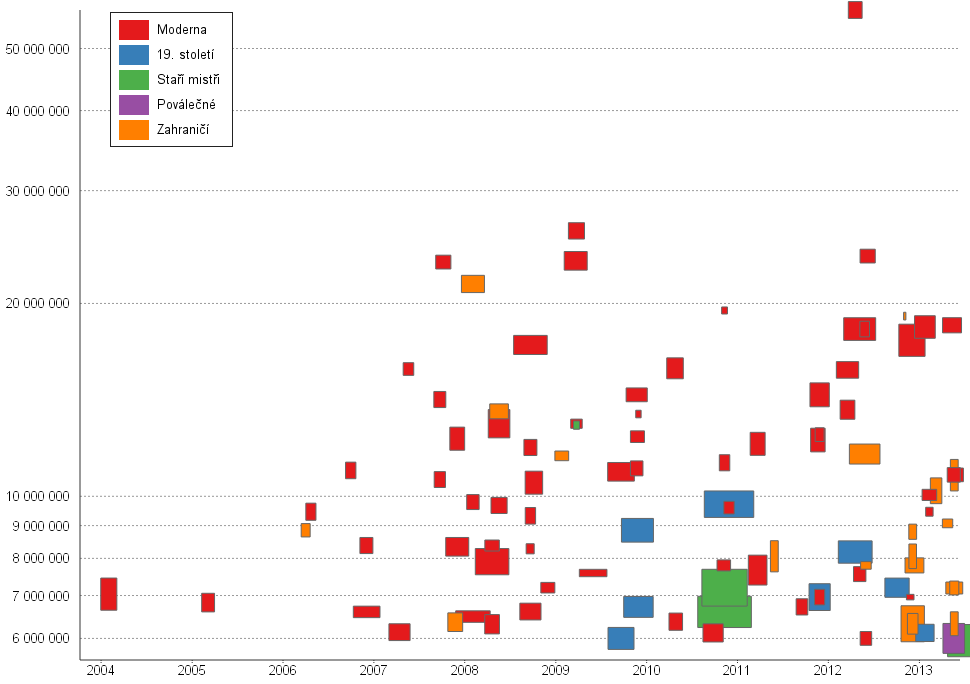
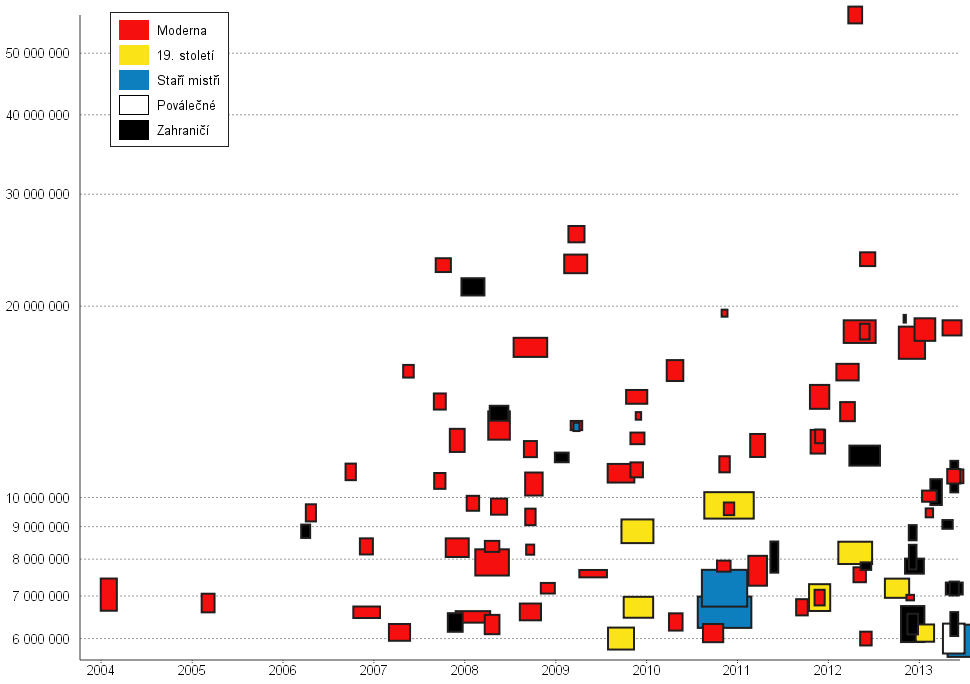
upravy barev, aby lepe odpovidaly Mondrianove stylu

diff --git a/www/index.html b/www/index.html
@@ -12,15 +12,15 @@
         <p class="fallback">Váš prohlížeč je bohužel zastaralý a nepodporuje interaktivní vizualizace. Doporučujeme jej aktualizovat, <a target="_blank" href="http://www.browserchoice.eu/">stáhnout jiný</a> nebo použít <a target="_blank" href="http://www.google.com/chromeframe">Google Chrome Frame</a> &ndash; na to nepotřebujete souhlas IT oddělení :-). Mezitím vám můžeme zobrazit pouze souhrnnou infografiku.</p>
         <img src="fallback.png" class="fallback">
         <dl id='legend' class='hiddenIfIncapableBrowser'>
-            <dt style='background-color: #E41A1C'></dt>
+            <dt style='background-color: #F50F0F'></dt>
             <dd>Moderna</dd>
-            <dt style='background-color: #377EB8'></dt>
+            <dt style='background-color: #FAE317'></dt>
             <dd>19. století</dd>
-            <dt style='background-color: #4DAF4A'></dt>
+            <dt style='background-color: #0D7FBE'></dt>
             <dd>Staří mistři</dd>
-            <dt style='background-color: #984EA3'></dt>
+            <dt style='background-color: #FFFFFF; border: 1px solid black;width: 28px;height:18px;'></dt>
             <dd>Poválečné</dd>
-            <dt style='background-color: #FF7F00'></dt>
+            <dt style='background-color: #000000'></dt>
             <dd>Zahraničí</dd>
         </dl>
         <div id="sidebar">
